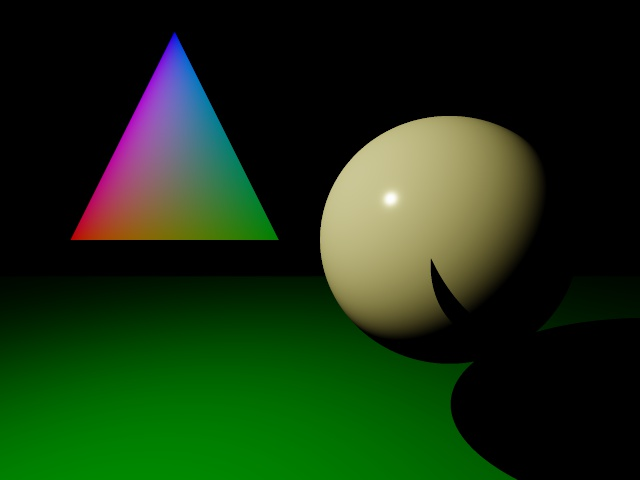
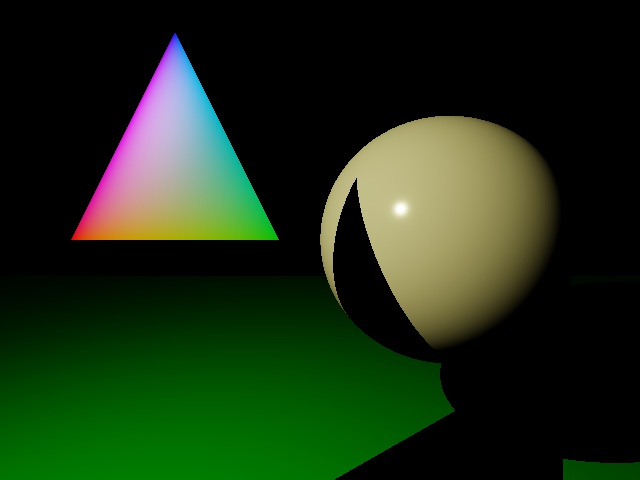
working multi thread

diff --git a/assignment-3/hw3-starterCode/hw3.cpp b/assignment-3/hw3-starterCode/hw3.cpp
@@ -6,11 +6,88 @@
 */
 
 #include "utility.h"
+#include <chrono>
 
 
 
 
-Scene* scene = new OpticalScene();
+OpticalScene* scene = new OpticalScene();
+
+struct Pixel {
+	vec2 index;
+	vec3 position;
+	float size;
+};
+
+vector<Pixel> pixels;
+int numOfThreads = 16;
+void getPixels() {
+	vec3 startPosition;
+	startPosition.z = -1;
+	startPosition.y = -tan(radians(FOV / 2));
+	startPosition.x = ASPECT_RATIO * startPosition.y;
+	float pixelSize = abs(2 * startPosition.y / HEIGHT); // calculate pixel size
+	startPosition -= vec3(pixelSize / 2, pixelSize / 2, 0);
+
+	Pixel base;
+	base.position = startPosition;
+	for (unsigned int x = 0; x < WIDTH; x++) {
+		base.position.x += pixelSize;
+		base.position.y = startPosition.y;
+
+		for (unsigned int y = 0; y < HEIGHT; y++) {
+			base.position.y += pixelSize;
+
+			Pixel pixel;
+			pixel.position = base.position;
+			pixel.index = vec2(x, y);
+			pixel.size = pixelSize;
+			pixels.push_back(pixel);
+		}
+	}
+}
+
+void drawPixel(Pixel pixel) {
+	scene->draw(pixel.index.x, pixel.index.y, pixel.size, pixel.position);
+}
+
+void drawPixels(int id) {
+	int pixelsPerThread = pixels.size() / numOfThreads;
+	int startPixel = id * pixelsPerThread;
+	int endPixel = (id + 1) * pixelsPerThread;
+
+	for (int i = startPixel; i < endPixel; i++) {
+		int x = i % WIDTH;
+		int y = i / WIDTH;
+
+		drawPixel(pixels[i]);
+	}
+}
+
+void draw_test3() {
+	std::vector<std::thread> threads;
+	for (int i = 0; i < numOfThreads; i++) {
+		std::thread t(drawPixels, i);
+		threads.push_back(std::move(t));
+	}
+
+	for (auto& thread : threads) {
+		thread.join();
+	}
+	for (unsigned int x = 0; x < WIDTH; x++) {
+		glPointSize(2.0);
+		glBegin(GL_POINTS);
+		for (unsigned int y = 0; y < HEIGHT; y++) {
+			unsigned char r = scene->buffer[y][x][0];
+			unsigned char g = scene->buffer[y][x][1];
+			unsigned char b = scene->buffer[y][x][2];
+			glColor3f(((float)r) / 255.0f, ((float)g) / 255.0f, ((float)b) / 255.0f);
+			glVertex2i(x, y);
+		}
+		glEnd();
+		glFlush();
+	}
+}
 
 void display() {
 }
@@ -24,16 +101,18 @@ void init() {
 	glClearColor(0, 0, 0, 0);
 	glClear(GL_COLOR_BUFFER_BIT);
 }
-#include <chrono>
 
 void idle() {
 	//hack to make it only draw once
 	static int once = 0;
 	if (!once) {
 		std::chrono::steady_clock::time_point begin = std::chrono::steady_clock::now();
-		scene->draw();
+
+		draw_test3();
+
+
 		std::chrono::steady_clock::time_point end = std::chrono::steady_clock::now();
-		std::cout << "Time difference = " << std::chrono::duration_cast<std::chrono::microseconds>(end - begin).count() / 1e-6 << "[s]" << std::endl;
+		printf("delta time = %fs\n", std::chrono::duration_cast<std::chrono::microseconds>(end - begin).count() * 1e-6);
 		if (scene->mode == MODE_JPEG)
 			scene->save_jpg();
 	}
@@ -55,6 +134,8 @@ int main(int argc, char** argv) {
 	printf("Input file: %s\n", argv[1]);
 
 	glutInit(&argc, argv);
+	
+	getPixels();
 	scene->load(argv[1]);
 
 	glutInitDisplayMode(GLUT_RGBA | GLUT_SINGLE);

diff --git a/assignment-3/hw3-starterCode/utility.h b/assignment-3/hw3-starterCode/utility.h
@@ -26,6 +26,9 @@
 #include <iostream>
 #include <vector>
 #include <random>
+#include <thread>
+#include <string> 
+
 
 
 #define EPSILON 0.0001f
@@ -121,6 +124,7 @@ public:
 
 class Scene {
 public:
+	unsigned char buffer[HEIGHT][WIDTH][3];
     int mode = MODE_DISPLAY;
     char* filename = NULL;
 
@@ -131,7 +135,7 @@ public:
 
     bool useGlobalLighting = false;
     bool useSSAA = false;
-    int numOfSubpixelsPerSide = 3;
+    int numOfSubpixelsPerSide = 1;
 	int numOfSampleLights = 1;
 	vec3 F0;
 
@@ -152,7 +156,6 @@ public:
 	void save_jpg();
 
 protected:
-	unsigned char buffer[HEIGHT][WIDTH][3];
 
 	vector<Object*> objects;
 
@@ -178,6 +181,7 @@ private:
 class OpticalScene : public Scene {
 public:
 	void draw() override;
+	void draw(int x, int y, float pixelSize, vec3 pixelPosition);
 	int load(char* argv) override;
 	Triangle* parseTriangle(FILE* file) override;
 	Sphere* parseSphere(FILE* file) override;

diff --git a/assignment-3/hw3-starterCode/utility.cpp b/assignment-3/hw3-starterCode/utility.cpp
@@ -190,6 +190,16 @@ vec3 PhongScene::superSample(int numOfSubpixelsPerSide, float pixelSize, vec3 pi
 #pragma endregion
 
 
+void OpticalScene::draw(int x, int y, float pixelSize, vec3 pixelPosition) {
+
+
+	vec3 color = stratifiedSample(numOfSubpixelsPerSide, pixelSize, pixelPosition);
+	color /= color + 1.0f;
+	color = clamp(color * 255.0f, vec3(0.0f), vec3(255.0f));
+	plot_pixel(x, y, color);
+
+}
+
 #pragma region OpticalScene
 void OpticalScene::draw() {
 	vector<vec3> colors;
